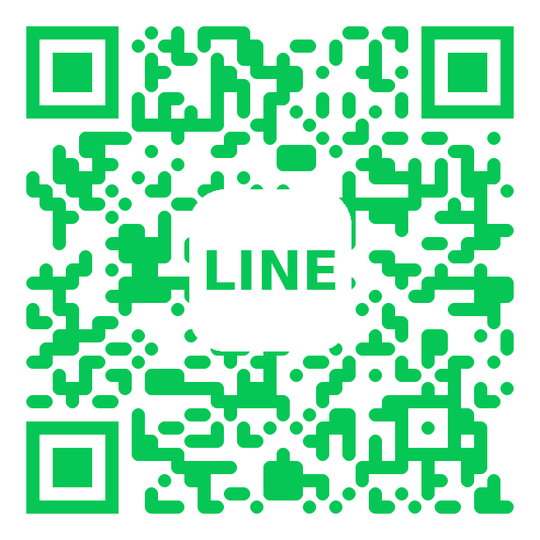
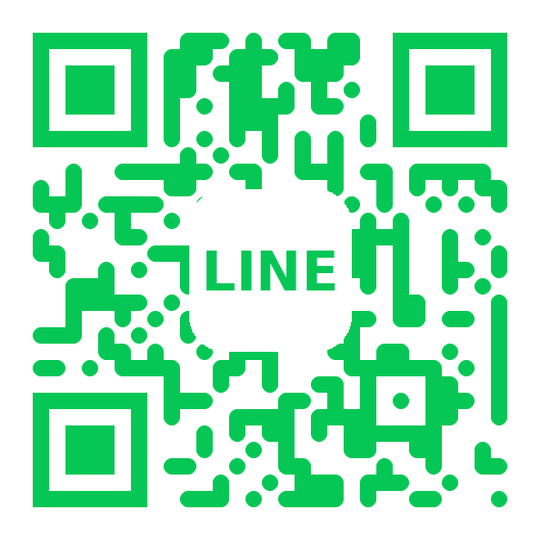
Fix LINE links and QR to the real friend URL (lin.ee/SsaVocu)
Replace the placeholder @scorch37367keg links and QR with the account's
actual add-friend URL; drop the unverified ID label.

Claude-Session: https://claude.ai/code/session_01X8GvQGKd554aKdwRqvMnmU

diff --git a/index.html b/index.html
@@ -163,7 +163,7 @@
           <h3>無料健康講座に参加する</h3>
           <p>健康のお話と体力測定を、気軽に体験してみてください。しつこい勧誘や、費用は一切ありません。</p>
           <div class="method-btns">
-            <a class="mbtn line" href="https://line.me/R/ti/p/@scorch37367keg" target="_blank" rel="noopener">LINEで予約</a>
+            <a class="mbtn line" href="https://lin.ee/SsaVocu" target="_blank" rel="noopener">LINEで予約</a>
             <a class="mbtn form" href="https://docs.google.com/forms/d/e/1FAIpQLSeQaxAKzfFeBXzYcHkHku25ovrLlPpBAjd2YTcD9rqlJi0O8Q/viewform" target="_blank" rel="noopener">フォームで予約</a>
             <a class="mbtn tel" href="tel:08063883537">お電話で予約（080-6388-3537）</a>
           </div>
@@ -174,8 +174,8 @@
         <div class="line-text">
           <h3>LINE公式アカウント</h3>
           <p>ご予約・ご相談は、LINEが一番かんたんです。友だち追加して、メッセージを送るだけ。次回講座の先行案内や健康情報もお届けします。</p>
-          <a class="btn line-btn" href="https://line.me/R/ti/p/@scorch37367keg" target="_blank" rel="noopener">LINEで友だち追加</a>
-          <p class="line-id">ID：@scorch37367keg</p>
+          <a class="btn line-btn" href="https://lin.ee/SsaVocu" target="_blank" rel="noopener">LINEで友だち追加</a>
+          <p class="line-id">友だち追加は、上のボタンまたはQRコードから</p>
         </div>
         <figure class="qr">
           <img src="images/line-qr.png" alt="LINE公式アカウント 友だち追加QRコード" width="150" height="150">
